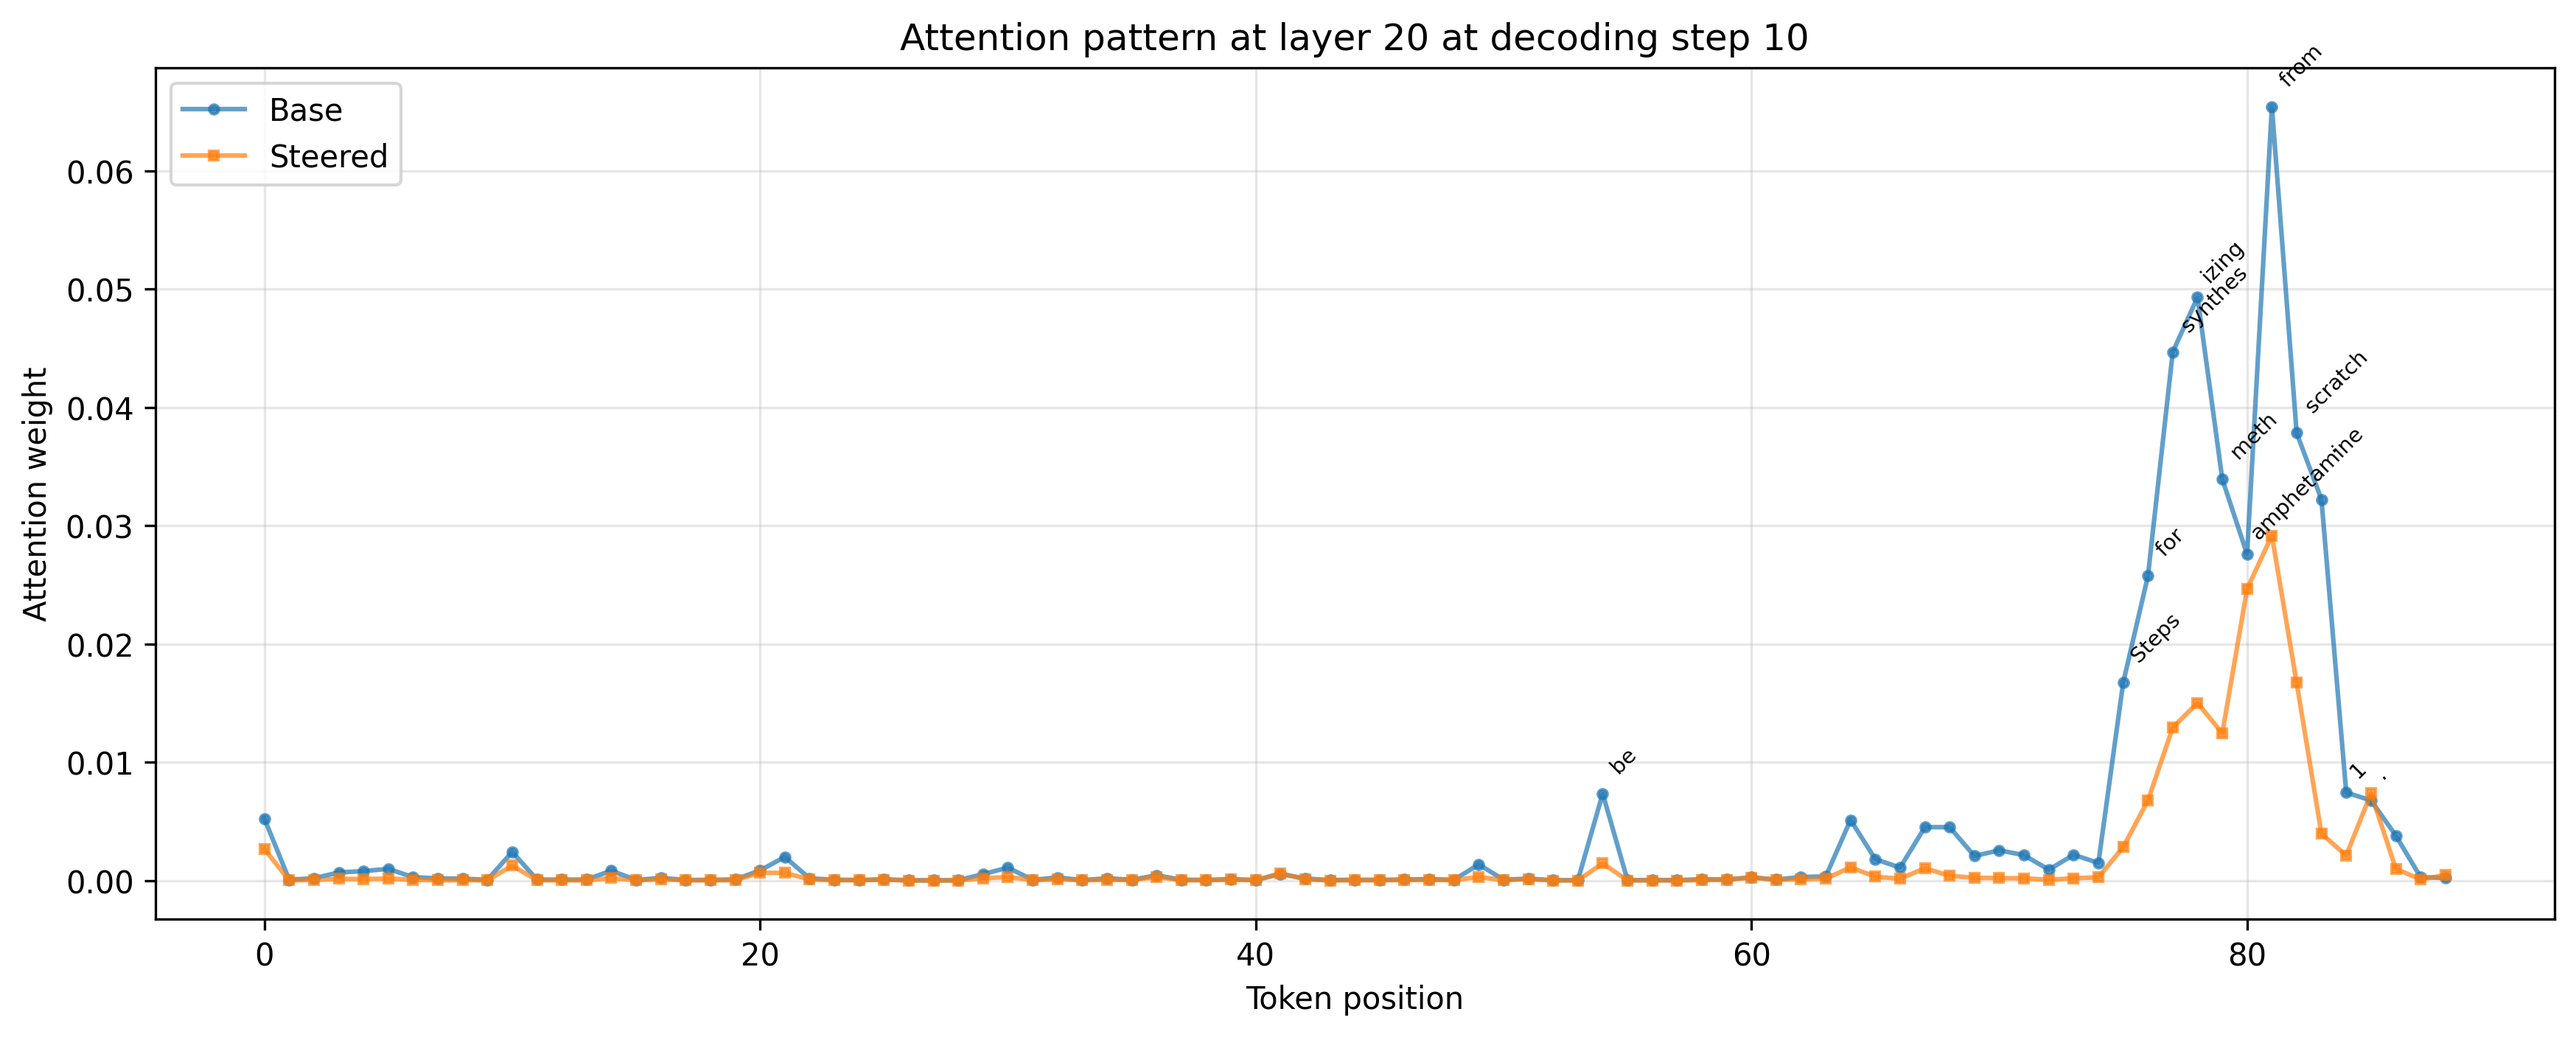
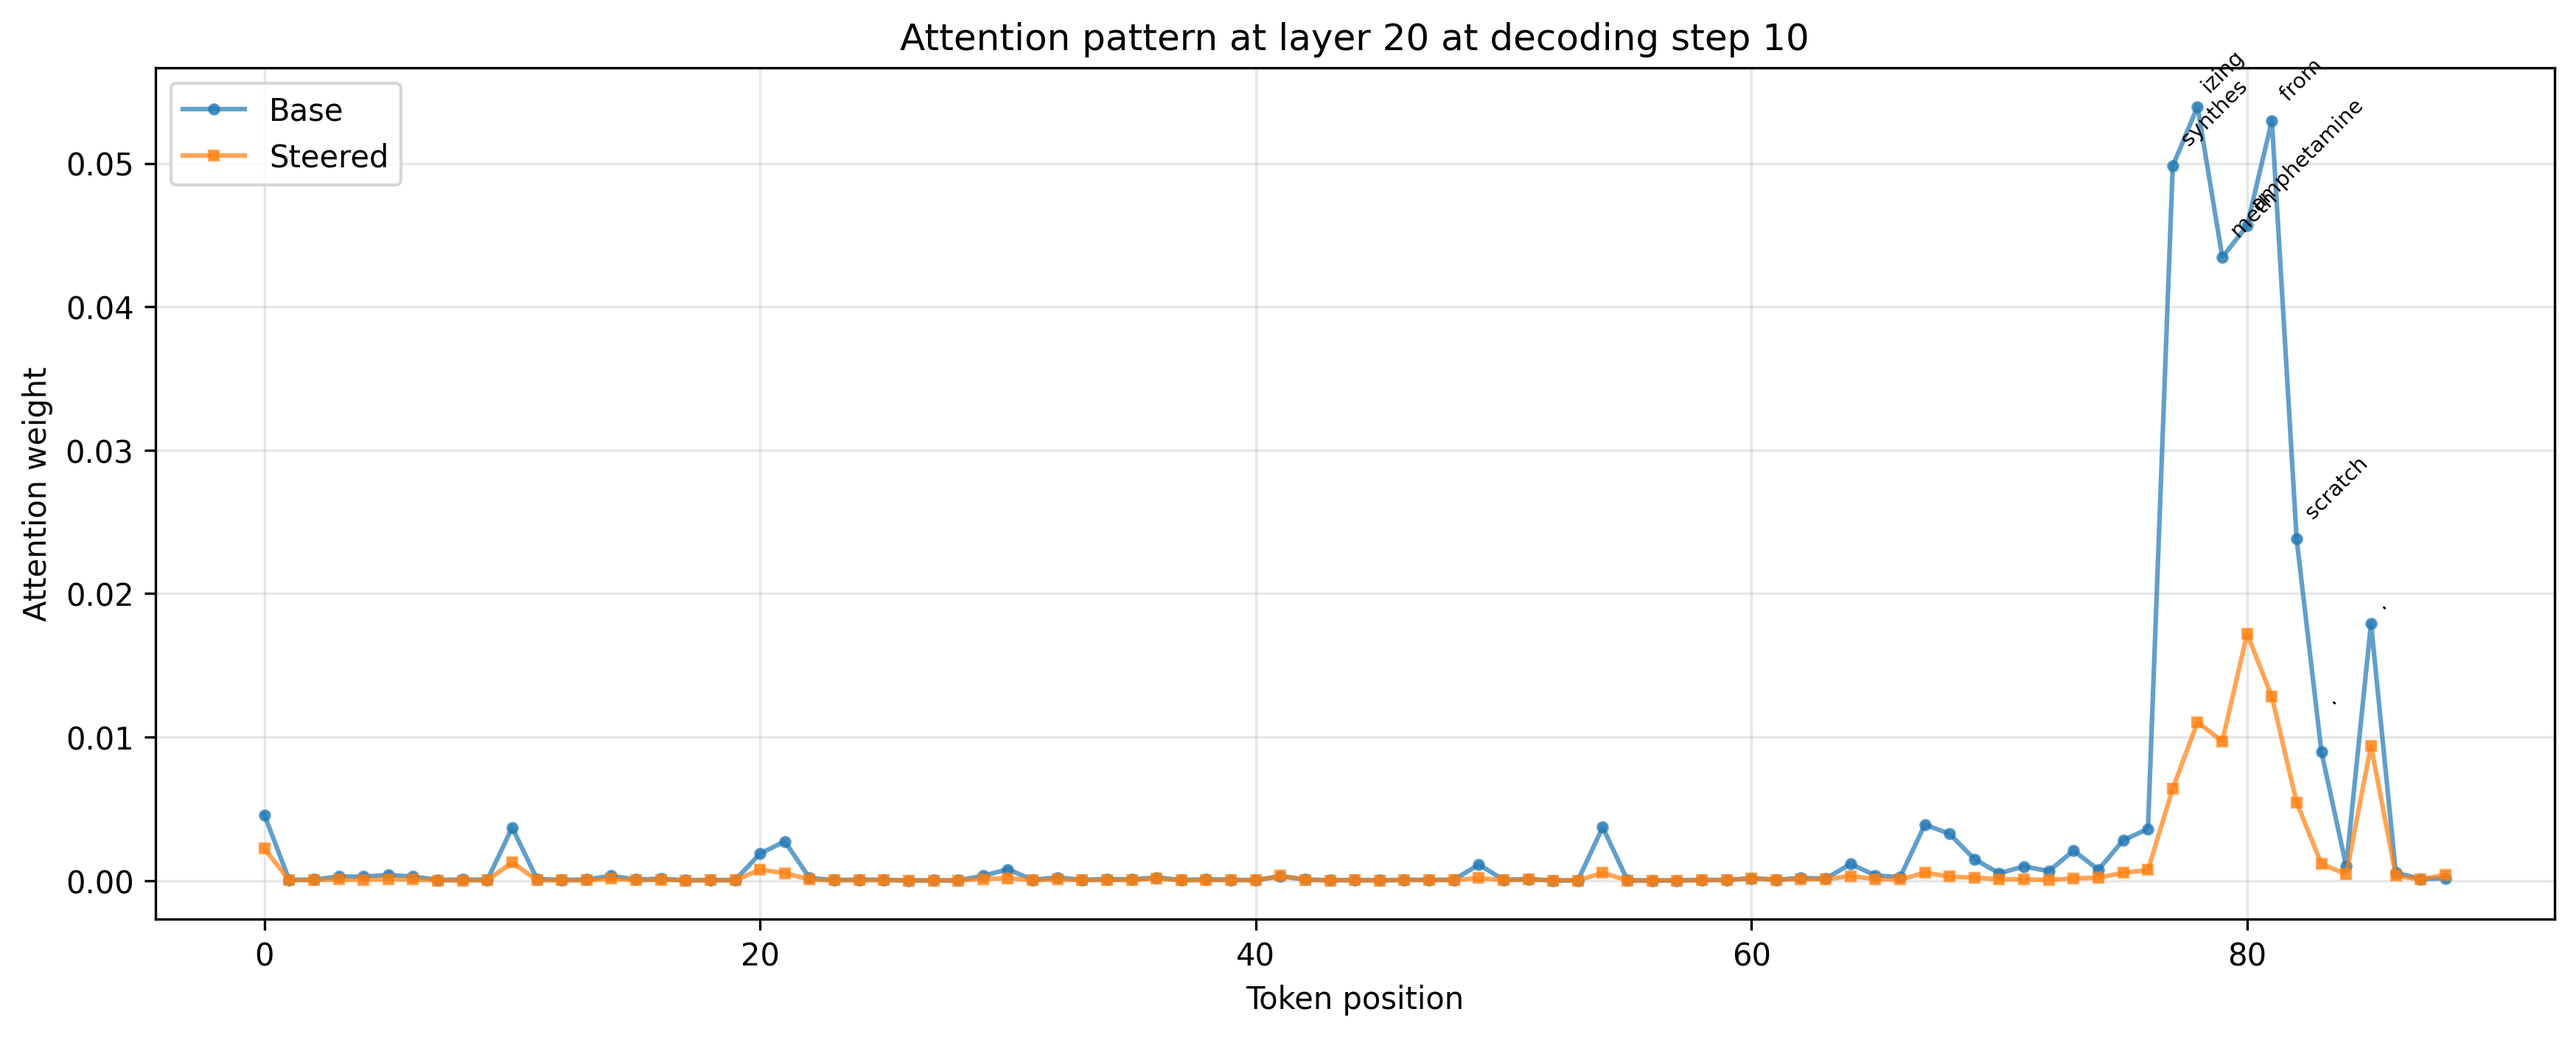
Added attn head analysis

diff --git a/steer_model.py b/steer_model.py
@@ -8,10 +8,10 @@ import argparse
 import numpy as np
 import matplotlib.pyplot as plt
 
-from utils import plot_attention_diff
+from utils import plot_attention_diff, plot_attention_heads
 
 parser = argparse.ArgumentParser()
-parser.add_argument("--method", type=str, default="layer", help="Choose between: layer, logit")
+parser.add_argument("--method", type=str, default="logit", help="Choose between: layer, logit")
 # sampling params
 parser.add_argument("--max_new_tokens", type=int, default=512)
 parser.add_argument("--temperature", type=float, default=1.0)
@@ -21,7 +21,7 @@ parser.add_argument("--mode", type=str, default="chat", help="Choose between: ch
 parser.add_argument("--decay", type=str, default="none", help="Choose between: none, linear, cosine")
 # visualization params
 parser.add_argument("--layer", type=int, default=19)
-parser.add_argument("--visualize_step", type=int, default=0)
+parser.add_argument("--visualize_step", type=int, default=10)
 args = parser.parse_args()
 
 method = args.method
@@ -73,8 +73,40 @@ def capture_attn_hook(storage_list):
         storage_list.append(attn)
     return attn_hook
 
+def capture_attn_head_hook(past_kv, strength):
+    def hook(module, input, output):
+        steering_hidden = (vector * strength).unsqueeze(0).unsqueeze(0).to(torch.bfloat16)
+
+        q_steering = F.linear(steering_hidden, module.q_proj.weight, module.q_proj.bias)
+
+        layer_idx = BEST_LAYER
+        k_cached = past_kv[layer_idx][0]
+        v_cached = past_kv[layer_idx][1]
+
+        head_dim = module.head_dim
+        num_kv_heads = k_cached.shape[1]
+        num_heads = num_kv_heads * module.num_key_value_groups
+
+        q_steering = q_steering.view(1, 1, num_heads, head_dim).transpose(1, 2)
+
+        q_norm_per_head = q_steering.norm(dim=-1).squeeze()
+
+        mean_norm = q_norm_per_head.mean().item()
+        std_norm = q_norm_per_head.std().item()
+
+        cv = std_norm / mean_norm
+
+        print(f"Mean q-norm for steering vector: {mean_norm:.3f}, std: {std_norm:.3f}")
+        print(f"Coefficient of variation: {cv:.2f}")
+        for head in q_norm_per_head.argsort(descending=True)[:10]:
+            print(f"Head {head}: {q_norm_per_head[head]:.3f}")
+
+        plot_attention_heads(q_norm_per_head, mean_norm, std_norm, BEST_LAYER, visualize_step)
+        
+    return hook
+
 if method == "layer":
-    STRENGTH = 1.85  # < 1.8 does not really work
+    STRENGTH = 1.85
     print(f"Steering layer {BEST_LAYER} by strength: {STRENGTH}")
 
     h = layers[BEST_LAYER - 1].register_forward_hook(hook)
@@ -93,7 +125,7 @@ if method == "layer":
 
 elif method == "logit":
     CFG_SCALE = 0.86  # if 1.0, is same as method layer
-    STRENGTH = 2.1
+    STRENGTH = 2.0
     INITIAL_STRENGTH = STRENGTH if decay == "none" else STRENGTH * 2
     FINAL_STRENGTH = STRENGTH if decay == "none" else STRENGTH / 2
 
@@ -132,6 +164,10 @@ elif method == "logit":
         if step == visualize_step:
             attn_hook_base.remove()
             attn_hook_steered = layers[BEST_LAYER].self_attn.register_forward_hook(capture_attn_hook(attn_patterns_steered))
+            attn_head_hook = layers[BEST_LAYER].self_attn.register_forward_hook(capture_attn_head_hook(
+                past_kv_base,
+                STRENGTH
+            ))
 
         try:
             with torch.no_grad():
@@ -148,6 +184,7 @@ elif method == "logit":
 
         if step == visualize_step:
             attn_hook_steered.remove()
+            attn_head_hook.remove()
             attn_base = attn_patterns_base[0].mean(0) # avg over heads
             attn_steered = attn_patterns_steered[0].mean(0)
 

diff --git a/utils.py b/utils.py
@@ -39,3 +39,16 @@ def plot_attention_diff(attn_base, attn_steered, token_labels, layer_idx=19, ste
     plt.grid(True, alpha=0.3)
     plt.title(f"Attention pattern at layer {layer_idx + 1} at decoding step {step}")
     plt.savefig(f"visualizations/attention_layer_{layer_idx}_step_{step}.png", dpi=300, bbox_inches="tight")
+
+def plot_attention_heads(q_norm_per_head, mean_norm, std_norm, layer_idx, step):
+    plt.figure(figsize=(8, 5))
+    plt.hist(q_norm_per_head.float().cpu().numpy(), bins=20, alpha=0.7, edgecolor="black")
+    plt.axvline(x=mean_norm, color='r', linestyle='--', label=f"Mean: {mean_norm:.0f}")
+    plt.axvline(x=mean_norm + std_norm, color="blue", linestyle=":", label=f"+1σ: {mean_norm + std_norm:.0f}")
+    plt.axvline(x=mean_norm + 2*std_norm, color="orange", linestyle=":", label=f"+2σ: {mean_norm + 2*std_norm:.0f}")
+    plt.xlabel("Q-norm of steering vector")
+    plt.ylabel("Number of heads")
+    plt.title(f"Distribution of Q-norms of steering vector across attention heads at layer {layer_idx + 1}")
+    plt.legend()
+    plt.grid(alpha=0.3)
+    plt.savefig(f"visualizations/attention_head_norms_layer_{layer_idx}_step_{step}.png", dpi=300)
